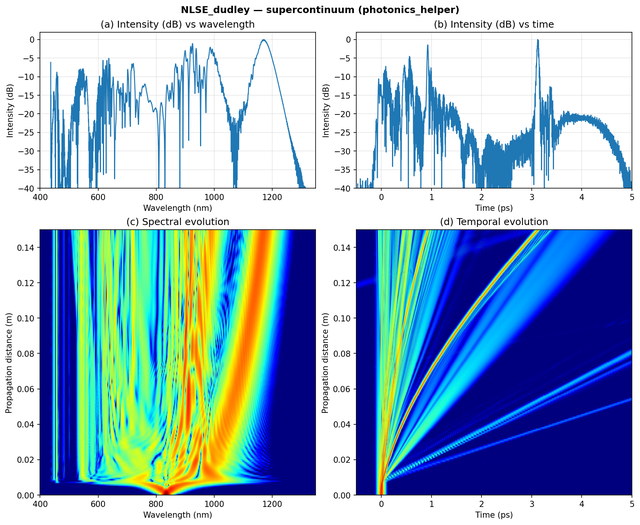
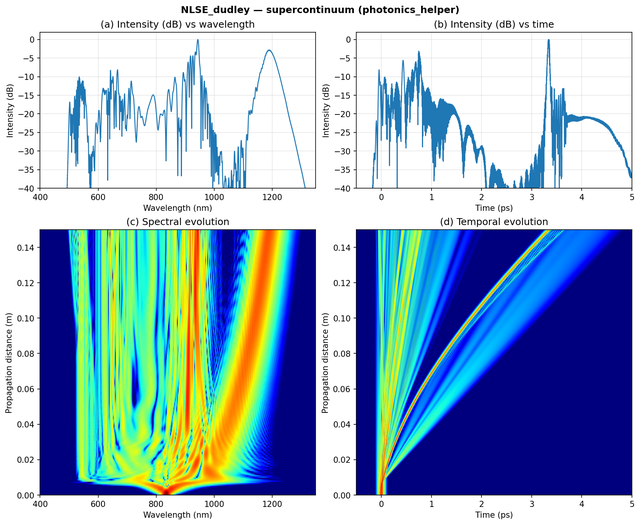
examples(21): converge the Dudley supercontinuum deck
The committed default (--safety-factor 2 -> 804 steps) leaves the output
spectrum 7.6 dB RMS away from converged and 7.6 dB from laserfun, with the
step-resolution checkerboard visible in the contour panels. The deck is
shock-limited (tau_shock * Omega_max = 0.91), so 3215 steps is the converged
rung: 24 s, 1.6 dB from a 6432-step run, 2.2 dB from laserfun (peak 944 nm
vs 943.6 nm). Default --safety-factor is now 8; --num-steps still overrides.

Also restores the fixed-step propagate() call so --num-steps and
--safety-factor act and the printed step count is the one that runs, and
regenerates the figure, the gallery page and its thumbnail.

diff --git a/examples/21_gnlse_nlse_dudley.py b/examples/21_gnlse_nlse_dudley.py
@@ -15,16 +15,18 @@ Self-steepening (shock term) is enabled to match laserfun's ``NLSE`` default
 same self-steepening setting; a mismatch (one on, one off) produces 10s of dB
 of spectral difference and dominates any solver-level comparison.
 
-Step count is chosen automatically from adaptive dispersion / nonlinear length
-limits (no fixed floor). Only ``nsaves`` field snapshots are kept for plotting
-(laserfun Dudley uses 200), while the integrator may take tens of thousands of
-internal steps for accuracy. Propagation may take several minutes; plotting RAM
-is ~``nsaves × N × 16`` bytes for stored fields.
+Step count is chosen from the adaptive dispersion / nonlinear length limits
+(no fixed floor), divided by ``--safety-factor`` (default 8 → ≈3.2k steps).
+This deck is shock-limited, not dispersion-limited: at the coarse default the
+spectrum sits ≈8 dB RMS away from converged, at 3.2k steps it agrees with
+laserfun to ≈2 dB (peak 944 nm vs 943.6 nm). Only ``nsaves`` field snapshots
+are kept for plotting (laserfun Dudley uses 200). Propagation takes ≈30 s;
+plotting RAM is ~``nsaves × N × 16`` bytes for stored fields.
 
 Usage::
 
     python examples/21_gnlse_nlse_dudley.py
-    python examples/21_gnlse_nlse_dudley.py --safety-factor 4   # even finer steps
+    python examples/21_gnlse_nlse_dudley.py --safety-factor 16  # even finer steps
     python examples/21_gnlse_nlse_dudley.py --no-progress       # plain text only
 """
 
@@ -165,10 +167,11 @@ def parse_args() -> argparse.Namespace:
     parser.add_argument(
         "--safety-factor",
         type=float,
-        default=2.0,
+        default=8.0,
         metavar="F",
-        help="Step-density multiplier passed to estimate_num_steps (default: 2.0; "
-        "larger → more steps, higher accuracy, longer runtime).",
+        help="Step-density multiplier passed to estimate_num_steps (default: 8.0 "
+        "→ ≈3.2k steps, the converged ladder; larger → more steps, higher "
+        "accuracy, longer runtime).",
     )
     parser.add_argument(
         "--num-steps",

diff --git a/docs/examples/21_gnlse_nlse_dudley.md b/docs/examples/21_gnlse_nlse_dudley.md
@@ -4,7 +4,7 @@ quadrant: reference
 
 # NLSE_dudley (photonics_helper)
 
-`examples/21_gnlse_nlse_dudley.py` (288 lines)
+`examples/21_gnlse_nlse_dudley.py` (291 lines)
 
 ## What it produces
 
@@ -30,16 +30,18 @@ Self-steepening (shock term) is enabled to match laserfun's ``NLSE`` default
 same self-steepening setting; a mismatch (one on, one off) produces 10s of dB
 of spectral difference and dominates any solver-level comparison.
 
-Step count is chosen automatically from adaptive dispersion / nonlinear length
-limits (no fixed floor). Only ``nsaves`` field snapshots are kept for plotting
-(laserfun Dudley uses 200), while the integrator may take tens of thousands of
-internal steps for accuracy. Propagation may take several minutes; plotting RAM
-is ~``nsaves × N × 16`` bytes for stored fields.
+Step count is chosen from the adaptive dispersion / nonlinear length limits
+(no fixed floor), divided by ``--safety-factor`` (default 8 → ≈3.2k steps).
+This deck is shock-limited, not dispersion-limited: at the coarse default the
+spectrum sits ≈8 dB RMS away from converged, at 3.2k steps it agrees with
+laserfun to ≈2 dB (peak 944 nm vs 943.6 nm). Only ``nsaves`` field snapshots
+are kept for plotting (laserfun Dudley uses 200). Propagation takes ≈30 s;
+plotting RAM is ~``nsaves × N × 16`` bytes for stored fields.
 
 Usage::
 
     python examples/21_gnlse_nlse_dudley.py
-    python examples/21_gnlse_nlse_dudley.py --safety-factor 4   # even finer steps
+    python examples/21_gnlse_nlse_dudley.py --safety-factor 16  # even finer steps
     python examples/21_gnlse_nlse_dudley.py --no-progress       # plain text only
 """
 
@@ -180,10 +182,11 @@ def parse_args() -> argparse.Namespace:
     parser.add_argument(
         "--safety-factor",
         type=float,
-        default=2.0,
+        default=8.0,
         metavar="F",
-        help="Step-density multiplier passed to estimate_num_steps (default: 2.0; "
-        "larger → more steps, higher accuracy, longer runtime).",
+        help="Step-density multiplier passed to estimate_num_steps (default: 8.0 "
+        "→ ≈3.2k steps, the converged ladder; larger → more steps, higher "
+        "accuracy, longer runtime).",
     )
     parser.add_argument(
         "--num-steps",
